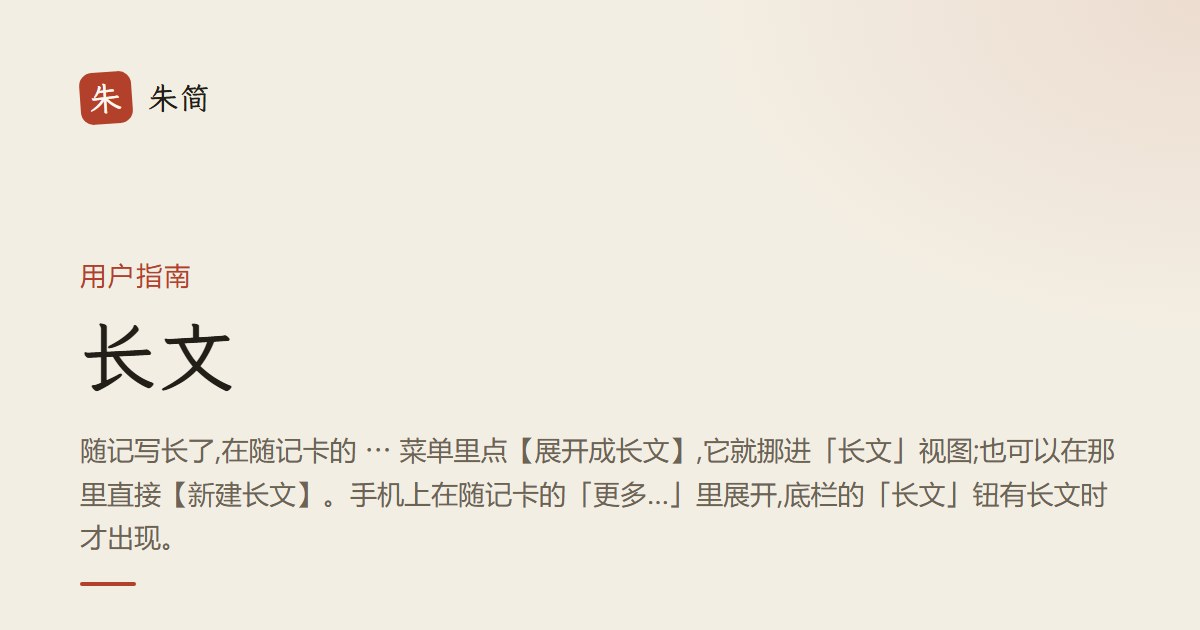
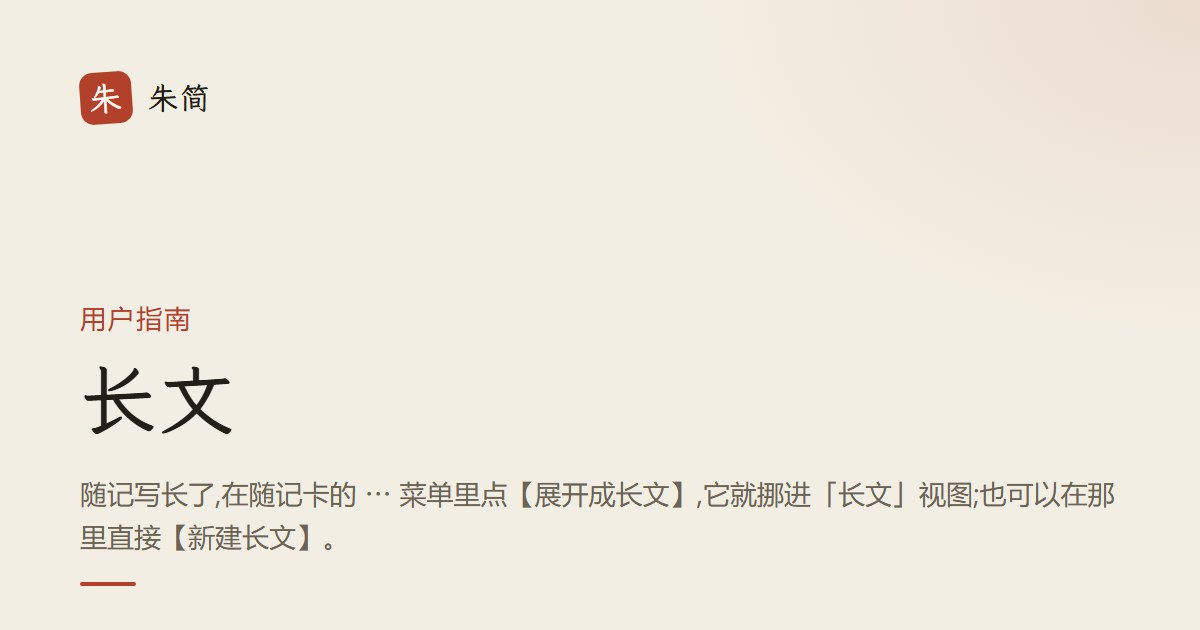
sync: 2026-10-30 (e17c3060)

Changed region(s): [[0.0617, 0.4825, 0.925, 0.8746], [0.0617, 0.4222, 0.1542, 0.4524]]

diff --git a/site-app/docs/longform.html b/site-app/docs/longform.html
@@ -8,14 +8,14 @@
          字典与运行期在页面末尾的那段内联 script 里(⚠ 注释里别写闭合标签的字面量:
          按标签切文件的工具会先命中这里,360 当场栽过一次)。 -->
     <title>长文 · 朱简用户指南</title>
-    <meta name="description" content="随记写长了,在随记卡的 ⋯ 菜单里点【展开成长文】,它就挪进「长文」视图;也可以在那里直接【新建长文】。手机上在随记卡的「更多…」里展开,底栏的「长文」钮有长文时才出现。" />
+    <meta name="description" content="随记写长了,在随记卡的 ⋯ 菜单里点【展开成长文】,它就挪进「长文」视图;也可以在那里直接【新建长文】。" />
 
     <!-- ───────── 分享卡片与 canonical(生成器写的;这一页只有中文,不挂 hreflang)───────── -->
     <link rel="canonical" href="https://zhujian.app/docs/longform.html" />
     <meta property="og:type" content="article" />
     <meta property="og:url" content="https://zhujian.app/docs/longform.html" />
     <meta property="og:title" content="长文 · 朱简用户指南" />
-    <meta property="og:description" content="随记写长了,在随记卡的 ⋯ 菜单里点【展开成长文】,它就挪进「长文」视图;也可以在那里直接【新建长文】。手机上在随记卡的「更多…」里展开,底栏的「长文」钮有长文时才出现。" />
+    <meta property="og:description" content="随记写长了,在随记卡的 ⋯ 菜单里点【展开成长文】,它就挪进「长文」视图;也可以在那里直接【新建长文】。" />
     <meta property="og:image" content="https://zhujian.app/og/docs-longform.jpg" />
     <meta property="og:image:width" content="1200" />
     <meta property="og:image:height" content="630" />
@@ -1368,7 +1368,7 @@
         <h1>长文</h1>
         <div class="docs-prose">
 <ul>
-<li>随记写长了,在随记卡的 ⋯ 菜单里点【展开成长文】,它就挪进「长文」视图;也可以在那里直接【新建长文】。手机上在随记卡的「更多…」里展开,底栏的「长文」钮有长文时才出现。和转成待办一样,是同一条内容换个地方,不产生副本;【收回随记】就回到随记时间轴。</li>
+<li>随记写长了,在随记卡的 ⋯ 菜单里点【展开成长文】,它就挪进「长文」视图;也可以在那里直接【新建长文】。手机上在随记卡的「更多…」里展开,底栏的「长文」钮有长文时才出现;要直接起一篇,点 ＋ 记一笔时下面那排的【长文】,已经敲的字和加的图会一起带进长文编辑器(带过去的图要在第一次保存时才挂上,存之前退出 app 会丢,字不会)。和转成待办一样,是同一条内容换个地方,不产生副本;【收回随记】就回到随记时间轴。</li>
 <li>长文<strong>不能直接转成任务</strong>,要转先收回随记。在长文的 ⋯ 菜单(手机上是阅读页的「更多…」)里可以直接【移动】到别的空间,到了那边还是长文。删除的长文进回收站,还原后回到长文。</li>
 <li><strong>Markdown 只在长文里生效</strong>。认这些:<code>#</code> 到 <code>###</code> 标题、粗体与斜体、行内代码与代码块、有序与无序列表、<code>- [ ]</code> 方框、<code>&gt;</code> 引用、分隔线、<code>http(s)://</code> 链接、「图N」。<strong>不认</strong>表格、HTML、插图片的写法,认不出的照原文显示。一篇太长或嵌套太深时整篇按原文显示,会写明。一条旧随记里 <code>#</code> 开头的行,展开之后才变成标题。</li>
 <li><strong>什么时候算一版</strong>:编辑时每停笔约一秒,当前的字存进<strong>这台设备上的草稿</strong>,草稿不同步、也不算一版;点【保存】、按 <code>Ctrl+S</code> 或离开编辑器,才落一版。没保存就关掉了,下次打开会提示「有一份没保存的草稿」,【接着改】还是【丢掉】由你选,不会自己套上去。</li>

diff --git a/android/src/docs.ts b/android/src/docs.ts
@@ -184,7 +184,7 @@ export function initDocs(d: Deps): void {
   deps = d;
   $("docs-new").addEventListener("click", () => {
     if (page.kind !== "list" || busy) return;
-    openEditor(null, loadDraft(space, null)?.text ?? null);
+    openEditor(null, loadDraft(space, null)?.text ?? null, []);
   });
 }
 
@@ -194,6 +194,24 @@ export function openDocs(): void {
   page = { kind: "list" };
   readerMode = "main";
   void load();
+}
+
+/** 从「记一笔」起一篇新长文(main.ts 开面之后调;backlog 152 ③:一篇长文都没有时底栏没有
+ *  「长文」钮,第一篇从这儿进)。框里的字接在没写完的新篇草稿后面(⛔ 不覆盖它),先落成一代
+ *  草稿再交给编辑器 —— 调用方随即清掉「记一笔」那份,杀进程时字在这边。暂存图进新篇那条纯内存
+ *  暂存条(第一次保存才挂上,同新篇自己加的图)。 */
+export function startDocFrom(text: string, files: File[]): void {
+  loadSeq++; // 开面那趟读列表作废:读失败会整页换成报错,把编辑器冲掉
+  const prior = loadDraft(space, null)?.text ?? "";
+  const seed = prior !== "" && text !== "" ? `${prior}\n\n${text}` : prior + text;
+  if (text !== "") {
+    try {
+      saveDraft(space, null, seed);
+    } catch {
+      /* 存不进去:字仍在编辑器里,停笔那一发会再试并明说(同编辑器自己的草稿) */
+    }
+  }
+  openEditor(null, seed === "" ? null : seed, files);
 }
 
 /** 跨面打开某一篇:先记下,开面后读到列表时落地(找不到就明说)。 */
@@ -427,7 +445,7 @@ function renderDoc(d: IdeaItem): void {
     draft !== null && draft.text !== d.content
       ? el("div", "row doc-draft", [
           el("span", "", [t("docs.draftFound", { time: fmtWhen(draft.at) })]),
-          btn(t("docs.draftResume"), () => openEditor(d, draft.text)),
+          btn(t("docs.draftResume"), () => openEditor(d, draft.text, [])),
           btn(t("docs.draftDiscard"), () => {
             clearDraft(sp, d.id, null);
             render();
@@ -450,7 +468,7 @@ function renderDoc(d: IdeaItem): void {
   root().replaceChildren(
     bar(
       [btn(t("docs.back"), () => go({ kind: "list" }), "ghost")],
-      [btn(t("docs.actEdit"), () => openEditor(d, null), "ghost"), btn(t("docs.actHistory"), () => go({ kind: "hist", id: d.id }), "ghost")],
+      [btn(t("docs.actEdit"), () => openEditor(d, null, []), "ghost"), btn(t("docs.actHistory"), () => go({ kind: "hist", id: d.id }), "ghost")],
     ),
     art,
     readerActions(d),
@@ -720,8 +738,9 @@ async function renderTags(panel: HTMLElement, d: IdeaItem): Promise<void> {
 
 // ---- 编辑器(§2)-------------------------------------------------------------------
 
-/** `d = null` = 新建。`seed` = 从草稿接着改时的起始文字(否则用正文)。 */
-function openEditor(d: IdeaItem | null, seed: string | null): void {
+/** `d = null` = 新建。`seed` = 从草稿接着改时的起始文字(否则用正文)。`carried` = 从「记一笔」
+ *  带过来的暂存图(只有新篇会有)。 */
+function openEditor(d: IdeaItem | null, seed: string | null, carried: File[]): void {
   hideConfirmBar();
   const sp = space;
   const id = d?.id ?? null;
@@ -747,6 +766,7 @@ function openEditor(d: IdeaItem | null, seed: string | null): void {
   thumbs.hidden = true;
   const pendingHost = el("div", "cthumbs");
   const pending = id === null ? composeImages(pendingHost, (items, idx) => void openLocalViewer(items, idx), false) : null;
+  for (const f of carried) pending!.add(f);
   /** 取图在飞(系统选择器开着 + 回来那几秒的降采样 + 已存篇的逐张挂上):两枚钮不受理、
    *  离开编辑器先拦一句 —— 走了的话挂上的图回不到这一页,暂存的图跟着编辑器一起丢。 */
   let picking = false;

diff --git a/android/src/main.ts b/android/src/main.ts
@@ -55,7 +55,7 @@ import * as cardPanel from "./cardpanel";
 import * as filter from "./filter";
 import * as panes from "./panes";
 import * as topics from "./topics";
-import { closeDocs, docsBack, focusDoc, initDocs, openDocs, reloadDocs, resetDocsForSpaceChange } from "./docs";
+import { closeDocs, docsBack, focusDoc, initDocs, openDocs, reloadDocs, resetDocsForSpaceChange, startDocFrom } from "./docs";
 import { initCardSwipe } from "./swipe";
 import { loadIdentity, signatureFor } from "./identity";
 import { createKbSheet, type KbSheet } from "./kbsheet";
@@ -1538,6 +1538,25 @@ async function save() {
   }
 }
 $("save").addEventListener("click", save);
+
+// 「长文」(831,backlog 152 ③):把框里的字与暂存图带进一篇新长文。⛔ 取图在飞时不受理:屏上
+// 摆着骨架时 takeBatch 只带走有字节的那几张(同「记下」那条 picking 闸的理由)。卡片草稿挡开面,
+// 先问过再收层 —— 否则层收了、面没开,用户落回时间轴。字交给长文那边落成草稿之后才清这边。
+$("compose-doc").addEventListener("click", () => {
+  if (captureSaving || switching || picking) return;
+  if (cardPanel.hasDirtyDraft()) {
+    showError(t("main.finishDraftFirst"));
+    return;
+  }
+  const ta = $("text") as HTMLTextAreaElement;
+  ta.blur();
+  dismissCapture();
+  openPane("docs");
+  if (activePane !== "docs") throw new Error("长文:开面没成(闸已在上面问过,不该到这儿)"); // 框里的字还在
+  startDocFrom(ta.value, compImgs.takeBatch());
+  ta.value = "";
+  localStorage.removeItem(COMPOSE_DRAFT_KEY); // 图的那份由 takeBatch 清
+});
 
 // ---- 悬浮 ＋ 钮 + 底部捕获层(232 优化)--------------------------------------
 // 平时零占屏:时间轴干净,只有右下角一颗悬浮 ＋。点 ＋(或任何路径聚焦到输入,如顶栏

diff --git a/android/index.html b/android/index.html
@@ -2276,6 +2276,9 @@
         <!-- 562:往正文里起一条待办项(手机没有 Ctrl,桌面那记 Ctrl+L 在这一端是一枚钮)。
              第二项起不用再点它——回车会自己续出下一条。 -->
         <button id="compose-todo" class="ghost cimg" type="button" data-i18n="shell.insertTodo">＋ 清单</button>
+        <!-- 831(backlog 152 ③):从这儿起一篇新长文,框里的字与暂存图一并带进长文编辑器。底栏「长文」钮
+             有长文才显形(用户 2026-10-29 拍),一篇都没有时第一篇只能从这儿进;它不看有没有长文,恒在。 -->
+        <button id="compose-doc" class="ghost cimg" type="button" data-i18n="shell.composeDoc">长文</button>
         <button id="save" class="primary" data-i18n="shell.saveIt">记下</button>
       </div>
     </section>

diff --git a/android/src/locales/shell.ts b/android/src/locales/shell.ts
@@ -52,6 +52,7 @@ export const shell = defineMessages({
   "shell.addImage": { zh: "＋ 加图", en: "＋ Image" },
   "shell.takePhoto": { zh: "＋ 拍照", en: "＋ Photo" },
   "shell.insertTodo": { zh: "＋ 清单", en: "＋ Checklist" },
+  "shell.composeDoc": { zh: "长文", en: "Long-form" },
   "shell.saveIt": { zh: "记下", en: "Note it" },
   "shell.captureAria": { zh: "记一笔", en: "Note something" },
   "shell.commentsTitle": { zh: "留言", en: "Comments" },

diff --git a/docs/user-guide.md b/docs/user-guide.md
@@ -48,7 +48,7 @@
 
 ## 长文
 
-- 随记写长了,在随记卡的 ⋯ 菜单里点【展开成长文】,它就挪进「长文」视图;也可以在那里直接【新建长文】。手机上在随记卡的「更多…」里展开,底栏的「长文」钮有长文时才出现。和转成待办一样,是同一条内容换个地方,不产生副本;【收回随记】就回到随记时间轴。
+- 随记写长了,在随记卡的 ⋯ 菜单里点【展开成长文】,它就挪进「长文」视图;也可以在那里直接【新建长文】。手机上在随记卡的「更多…」里展开,底栏的「长文」钮有长文时才出现;要直接起一篇,点 ＋ 记一笔时下面那排的【长文】,已经敲的字和加的图会一起带进长文编辑器(带过去的图要在第一次保存时才挂上,存之前退出 app 会丢,字不会)。和转成待办一样,是同一条内容换个地方,不产生副本;【收回随记】就回到随记时间轴。
 - 长文**不能直接转成任务**,要转先收回随记。在长文的 ⋯ 菜单(手机上是阅读页的「更多…」)里可以直接【移动】到别的空间,到了那边还是长文。删除的长文进回收站,还原后回到长文。
 - **Markdown 只在长文里生效**。认这些:`#` 到 `###` 标题、粗体与斜体、行内代码与代码块、有序与无序列表、`- [ ]` 方框、`>` 引用、分隔线、`http(s)://` 链接、「图N」。**不认**表格、HTML、插图片的写法,认不出的照原文显示。一篇太长或嵌套太深时整篇按原文显示,会写明。一条旧随记里 `#` 开头的行,展开之后才变成标题。
 - **什么时候算一版**:编辑时每停笔约一秒,当前的字存进**这台设备上的草稿**,草稿不同步、也不算一版;点【保存】、按 `Ctrl+S` 或离开编辑器,才落一版。没保存就关掉了,下次打开会提示「有一份没保存的草稿」,【接着改】还是【丢掉】由你选,不会自己套上去。
